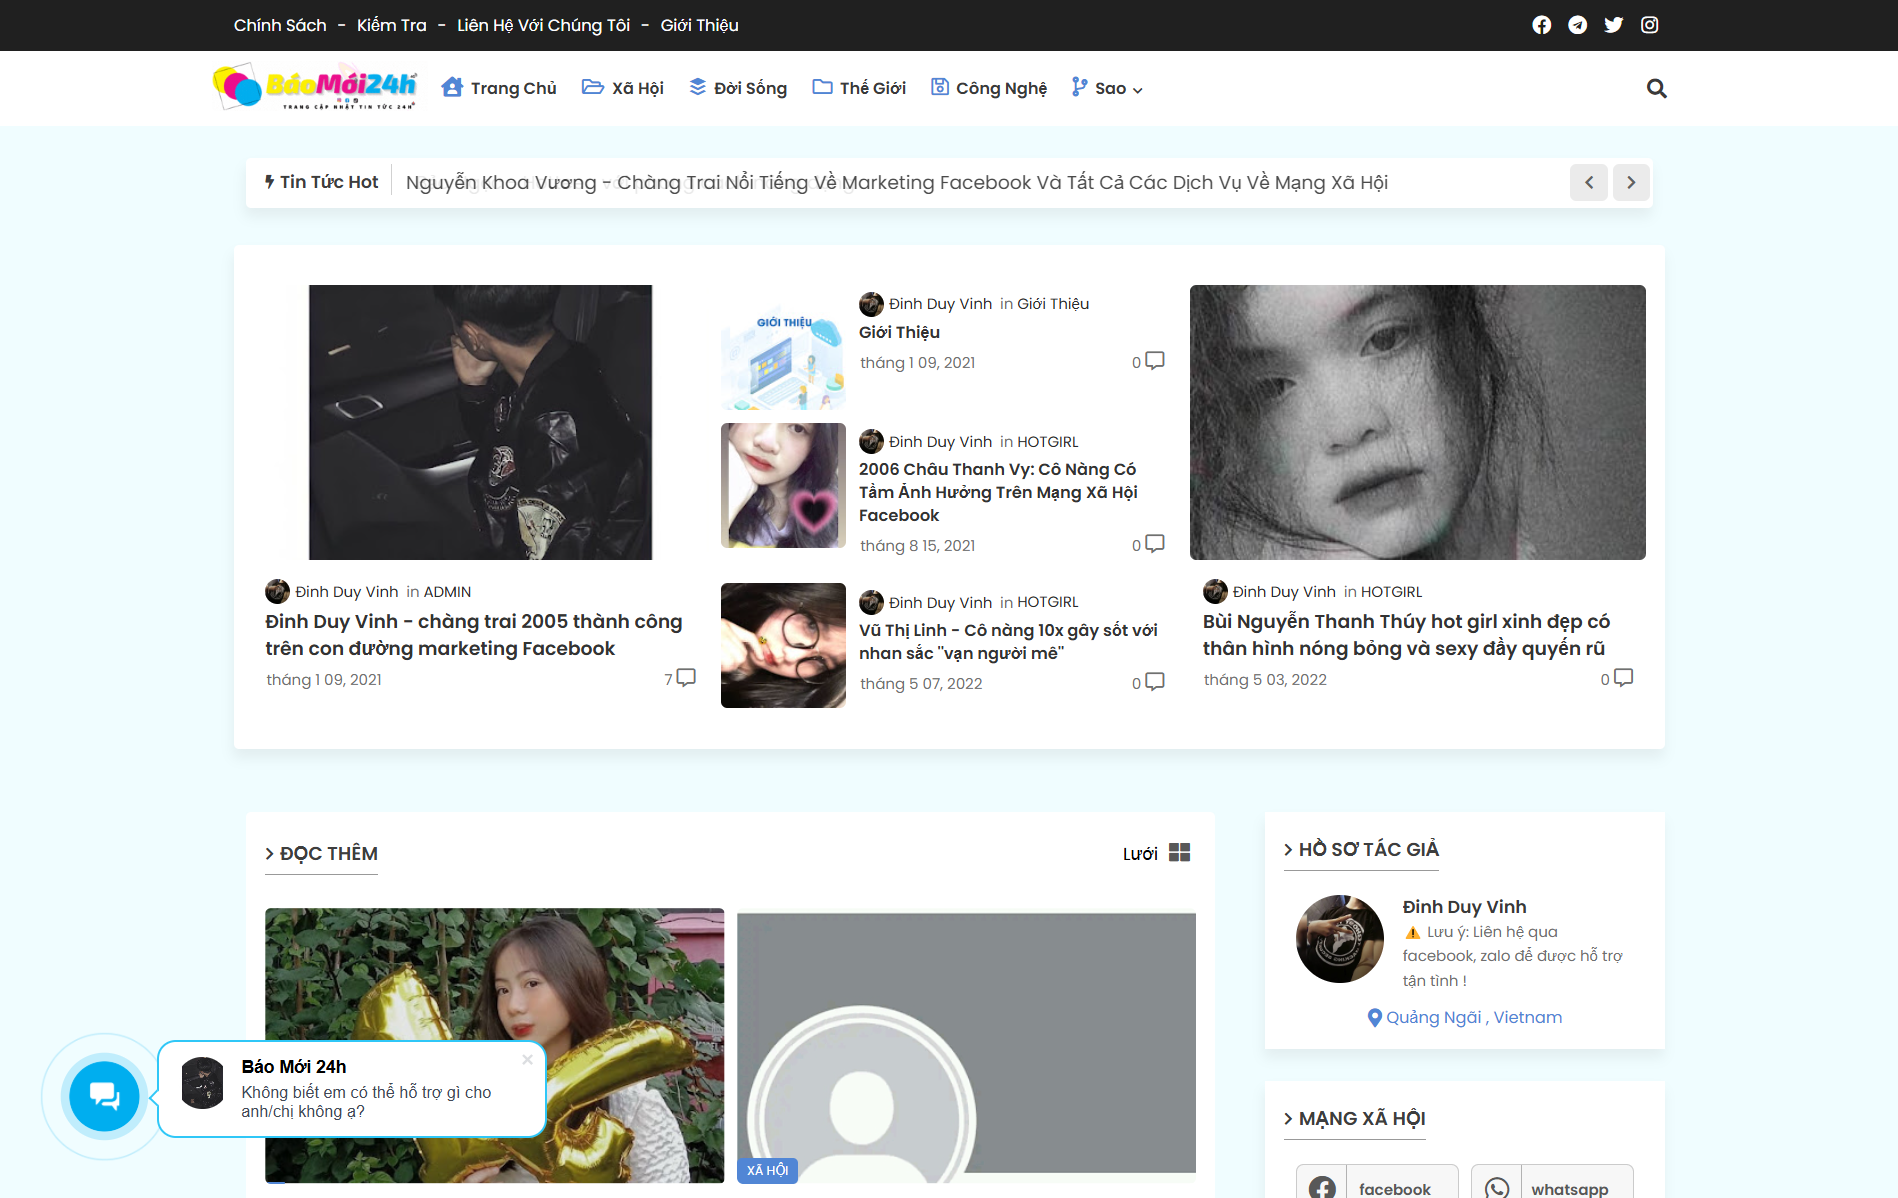
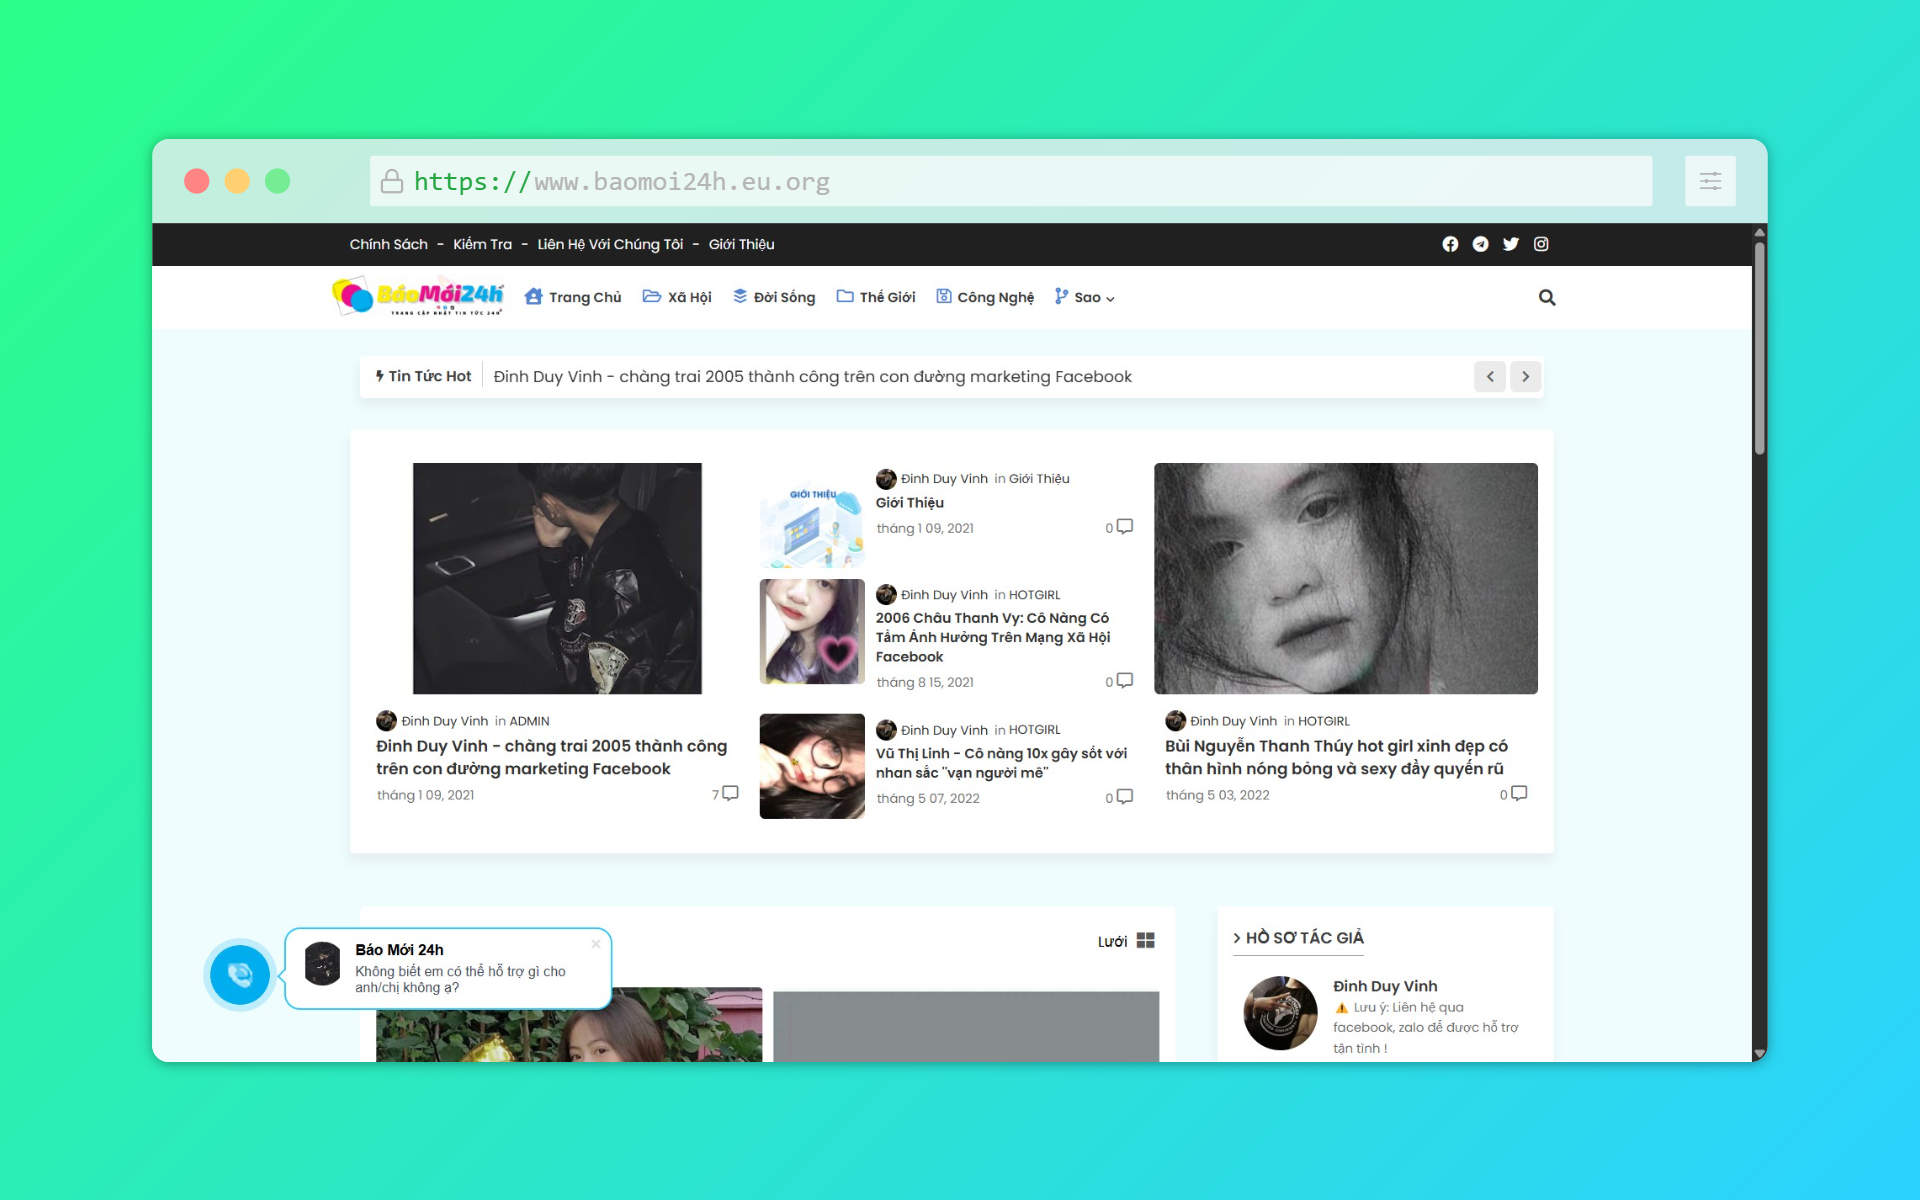
Refactor code structure for improved readability and maintainability

diff --git a/index.html b/index.html
@@ -311,6 +311,22 @@
                             </div>
                         </div>
                     </article>
+                    <article class="projects__card">
+                        <img src="./assets/img/image/get2fa.png" class="projects__img">
+                        <div class="projects__modal">
+                            <div class="projects__tags">
+                                <span class="projects__tag" data-vi="tiện ích">utility</span>
+                                <span class="projects__tag" data-vi="công cụ">tool</span>
+                            </div>
+                            <div>
+                                <span class="projects__subtitle" data-vi="Trình tạo 2FA | Công cụ tạo mã OTP">2FA Generator | One-Time Password Utility</span>
+                                <h3 class="projects__title" data-vi="Xác Thực Hai Yếu Tố">Two-Factor Authentication</h3>
+                                <a href="https://web-2fa.vercel.app/" class="projects__button button button_small">
+                                    <i class="fa-solid fa-arrow-up-right-from-square"></i>
+                                </a>
+                            </div>
+                        </div>
+                    </article>
 
                 </div>
 
